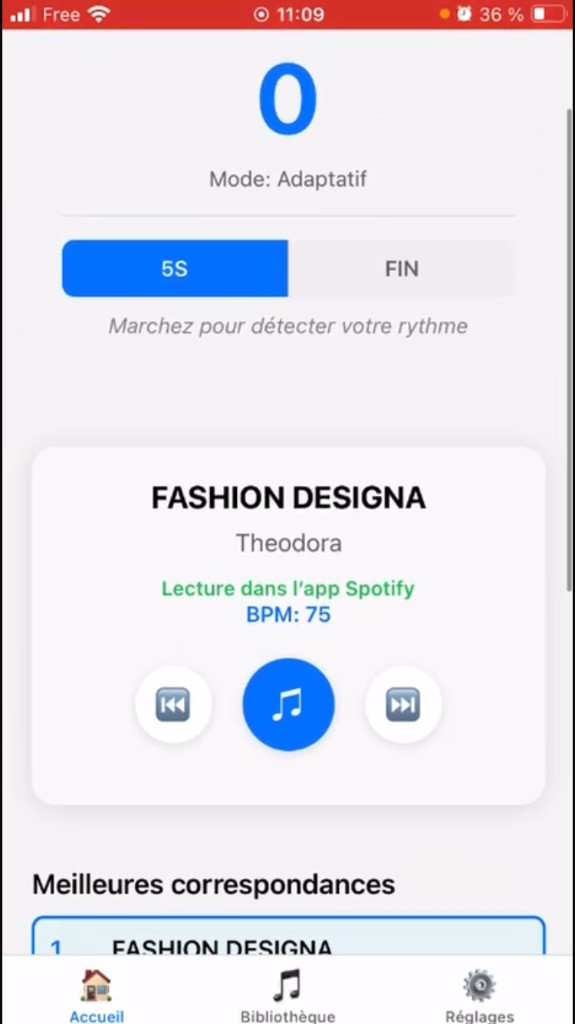
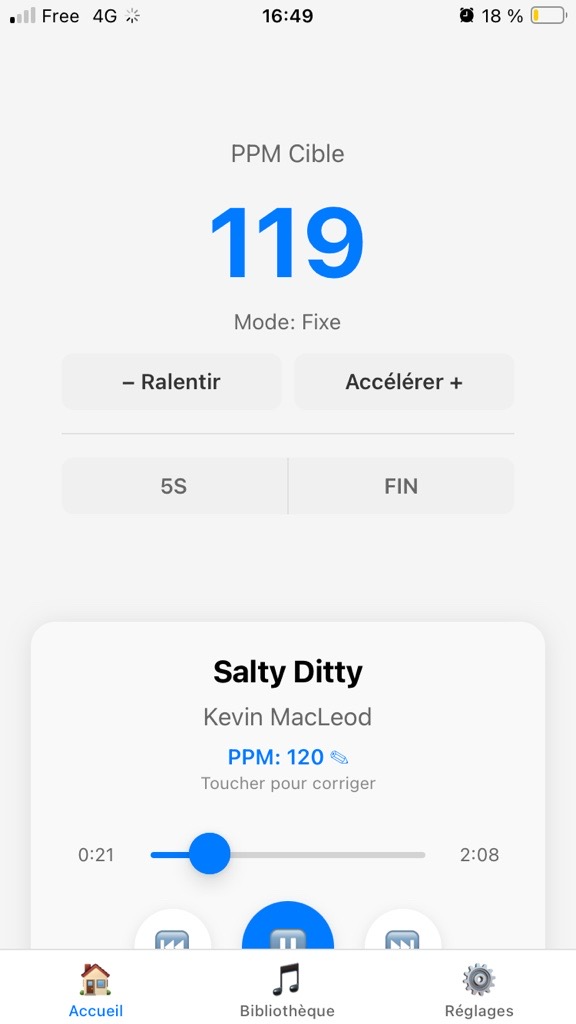
feat: cadence, pace and library screenshots on landing.

diff --git a/index.html b/index.html
@@ -64,7 +64,7 @@
           src="screenshot-home.png"
           width="390"
           height="844"
-          alt="BeatOnStep : rythme détecté et morceau proposé"
+          alt="BeatOnStep : cadence cible et lecteur"
         />
       </div>
     </section>
@@ -91,6 +91,42 @@
         <p data-fr>MP3, catalogue, YouTube Music, Spotify.</p>
         <p data-en>MP3s, built-in catalog, YouTube Music, Spotify.</p>
       </article>
+    </section>
+
+    <section class="shots" aria-label="Aperçu de l’app">
+      <figure class="shot">
+        <div class="phone">
+          <img src="screenshot-home.png" width="390" height="844" alt="Accueil : cadence cible et morceau en lecture" />
+        </div>
+        <figcaption>
+          <strong data-fr>Cadence</strong>
+          <strong data-en>Cadence</strong>
+          <span data-fr>Tu poses le PPM. L’app envoie un titre dans la même fourchette.</span>
+          <span data-en>You set the PPM. The app queues a track in the same range.</span>
+        </figcaption>
+      </figure>
+      <figure class="shot">
+        <div class="phone">
+          <img src="screenshot-pace.png" width="390" height="844" alt="Accueil : allure en min/km et calibration" />
+        </div>
+        <figcaption>
+          <strong data-fr>Allure</strong>
+          <strong data-en>Pace</strong>
+          <span data-fr>Marche ou course : l’allure s’affiche en min/km, tu calibres en un tap.</span>
+          <span data-en>Walk or run: pace in min/km, one tap to calibrate.</span>
+        </figcaption>
+      </figure>
+      <figure class="shot">
+        <div class="phone">
+          <img src="screenshot-library.png" width="390" height="844" alt="Bibliothèque : pistes locales, serveur et YouTube Music" />
+        </div>
+        <figcaption>
+          <strong data-fr>Bibliothèque</strong>
+          <strong data-en>Library</strong>
+          <span data-fr>Tes fichiers, le catalogue, YouTube Music. Import et BPM au même endroit.</span>
+          <span data-en>Your files, the catalog, YouTube Music. Import and BPM in one place.</span>
+        </figcaption>
+      </figure>
     </section>
 
     <main class="card demo">

diff --git a/site.css b/site.css
@@ -335,6 +335,41 @@ footer a:hover { color: var(--accent); }
   color: var(--muted);
   font-size: 0.95rem;
 }
+.shots {
+  display: grid;
+  grid-template-columns: repeat(3, 1fr);
+  gap: 1.5rem 1.25rem;
+  margin: 0 0 2.75rem;
+  align-items: start;
+}
+.shot {
+  margin: 0;
+  display: flex;
+  flex-direction: column;
+  align-items: center;
+  gap: 0.9rem;
+}
+.shot .phone {
+  width: min(100%, 240px);
+}
+.shot figcaption {
+  text-align: center;
+  max-width: 16rem;
+}
+.shot figcaption strong {
+  display: block;
+  font-family: Fraunces, Georgia, serif;
+  font-size: 1.05rem;
+  font-weight: 600;
+  margin: 0 0 0.25rem;
+  color: var(--ink);
+}
+.shot figcaption span {
+  display: block;
+  font-size: 0.9rem;
+  color: var(--muted);
+  line-height: 1.45;
+}
 .demo {
   max-width: 44rem;
   margin: 0 auto;
@@ -349,4 +384,6 @@ footer a:hover { color: var(--accent); }
   }
   .phone { width: min(100%, 240px); }
   .pillars { grid-template-columns: 1fr; }
+  .shots { grid-template-columns: 1fr; }
+  .shot .phone { width: min(100%, 260px); }
 }
